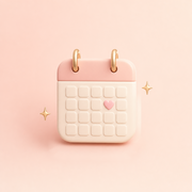
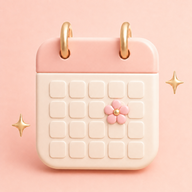
🌸 앱 아이콘 교체: 달력+꽃(큰 달력·4번째 칸 큰 꽃) — 512·192·180·멀티 ICO·소스, v=4·서비스워커 캐시 v2

Changed region(s): [[0.0, 0.0938, 0.8438, 1.0], [0.8438, 0.375, 0.9688, 0.5], [0.0938, 0.9688, 0.125, 1.0]]

diff --git a/sw.js b/sw.js
@@ -2,9 +2,9 @@
    · 화면(index.html): 인터넷이 되면 항상 최신본을 받아오고(네트워크 우선), 안 되면 저장해 둔 사본을 보여 줌
    · 아이콘 등: 저장해 둔 사본을 먼저 사용
    · 기록 데이터는 여기서 다루지 않음 (폰 저장공간 + 가족 공유 클라우드에 그대로) */
-var CACHE = 'kkotdanjang-v1';
-var CORE = ['./', './index.html', './manifest.webmanifest', './favicon.ico',
-  './apple-touch-icon.png', './icon-192.png', './icon-512.png'];
+var CACHE = 'kkotdanjang-v2';
+var CORE = ['./', './index.html', './manifest.webmanifest?v=4', './favicon.ico?v=4',
+  './apple-touch-icon.png?v=4', './icon-192.png?v=4', './icon-512.png?v=4'];
 
 self.addEventListener('install', function(e){
   e.waitUntil(caches.open(CACHE).then(function(c){ return c.addAll(CORE); }).then(function(){ return self.skipWaiting(); }));

diff --git a/index.html b/index.html
@@ -8,9 +8,9 @@
 <meta name="apple-mobile-web-app-status-bar-style" content="default">
 <meta name="apple-mobile-web-app-title" content="꽃단장">
 <meta name="robots" content="noindex, nofollow">
-<link rel="icon" href="favicon.ico?v=3" sizes="any">
-<link rel="apple-touch-icon" href="apple-touch-icon.png?v=3">
-<link rel="manifest" href="manifest.webmanifest">
+<link rel="icon" href="favicon.ico?v=4" sizes="any">
+<link rel="apple-touch-icon" href="apple-touch-icon.png?v=4">
+<link rel="manifest" href="manifest.webmanifest?v=4">
 <title>꽃단장 🌸 · 뷰티 케어 캘린더</title>
 <style>
 :root{
